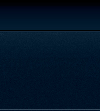
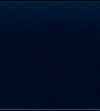
add

diff --git a/wp-content/themes/eurolimoTheme/css/main.css b/wp-content/themes/eurolimoTheme/css/main.css
@@ -1,1 +1,1 @@
-@import url(http://fonts.googleapis.com/css?family=Nova+Square);body{background-image:url('../img/bg_main.jpg');background-attachment:fixed;background-size:cover;font:normal 14px/20px 'Nova Square','Lucida Grande',Arial,san-serif;color:#fff}h1{font-family:'Nova Square',serif;font-size:25px}h3{font-family:'Nova Square',serif;font-size:20px;padding-bottom:4px;color:#3fa2e7;margin-bottom:16px;background:url(../img/h1_bg.png) repeat-x 0 bottom}h3:first-letter {color:#3d94ff;text-transform:uppercase}b,strong{color:#529bfc}.wrapper{width:960px;margin:0 auto;clear:both}#header{background-image:url('../img/topline_bg.jpg');height:111px;width:100%}#header .wrapper{position:relative;height:100%}#header #logo{float:left}#main-slider{padding:0;background:url('../img/bg_slide_t.png');border-bottom:1px solid #555}#main-section{overflow:hidden}#main-section .wrap-main{overflow:hidden;margin-top:0;background:url(../img/cont_spot_t.png) no-repeat center 0}#main-section .wrap-main .left-content{float:left;width:600px;margin:30px 0 0 0}#main-section .wrap-main .full-content{float:left;width:100%;margin:30px 0 0 0}#main-section .wrap-main .sidebar{float:right;width:300px;margin:30px 0 0 0}#main-title{background:#fff url('../img/breadcrumbs_mask.png')}#main-title h1{margin:0;padding:28px 0;line-height:1em;color:#000}.bx-wrapper .bx-viewport{-moz-box-shadow:0 0 8px #000;-webkit-box-shadow:0 0 8px #000;box-shadow:0 0 8px #000;border:solid #202020 8px;left:0;background:transparent}.bx-wrapper .bx-viewport .overlay-slide{width:100%;height:100%;position:absolute;top:0;left:0;background:url('../img/bg_slide_t.png')}.bx-wrapper .bx-viewport img{width:100%;border:1px solid #ccc}.bx-wrapper .bx-caption span{font-size:18px;font-family:'Nova Square',serif}.bx-wrapper .bx-caption{bottom:16px}#footer{float:left;width:100%;margin:30px 0 0 0;min-height:150px;background:#0d1826 url('../img/footer_spot.png') no-repeat center 0;padding-bottom:35px}.copy{float:left;width:100%;min-height:42px;padding:15px 0;background:#0d1826 url(../img/bottline_bg.png) no-repeat center 0}.no-padding{padding-left:0;padding-right:0}.item{position:relative}.services .service-img{height:150px;overflow:hidden;padding:0;margin:0 0 10px 0}.services .service-img img{border:2px solid #636363;width:100%}.services .service-title{text-align:center;position:absolute;left:0;right:0;bottom:0;padding:.25em 0 .25em 0;margin:0;background:#000;-moz-opacity:.60;opacity:.60;color:#fff}.services .item{margin-bottom:15px}.services .item:last-child{margin-bottom:0}.caption{color:#ccc}.caption .bx-wrapper .bx-viewport{border:0!important;-moz-box-shadow:0 0 0!important;-webkit-box-shadow:0 0 0!important;box-shadow:0 0 0!important}.caption span.autor{float:right;color:#3fa2e7;padding-bottom:10px;font-size:12px}.outside-controls-direction{display:none;position:absolute;top:-8px;left:150px;width:75px}.outside-controls-direction span,.outside-controls-direction a{width:32px;height:32px;text-indent:-9999px;z-index:9999}.outside-controls-direction .bx-next{right:10px;background:url(../js/bxslider/images/controls.png) no-repeat -43px -32px;float:right}.outside-controls-direction .bx-prev{left:10px;background:url(../js/bxslider/images/controls.png) no-repeat 0 -32px;float:left}#slider{margin:0 0 40px 0}.site-navigation li .current_page_item>a,.site-navigation li .current_page_ancestor>a,.site-navigation li .current-menu-item>a,.site-navigation li .current-menu-ancestor>a{color:#d14f00}.primary-navigation{position:absolute;left:250px;top:50%;font-size:15px;margin:0;padding:0}.primary-navigation .menu-toggle{display:none;padding:0}.primary-navigation .nav-menu{border-bottom:0;display:block}.primary-navigation.toggled-on{border-bottom:0;margin:0;padding:0}.primary-navigation li{border:0;display:inline-block;line-height:1em;position:relative}.primary-navigation a{display:inline-block;padding:5px 12px;white-space:nowrap;font-family:'Nova Square',serif;color:#fff}.primary-navigation ul ul{background:url(../img/ddmenu_bg.png) no-repeat 0 0;width:204px;padding:24px 0 4px 8px;float:left;margin:0;position:absolute;top:20px;left:-999em;z-index:99999}.primary-navigation li li{border:0;display:block;height:auto;line-height:1.0909090909}.primary-navigation ul ul ul{left:-999em;top:0}.primary-navigation ul ul a{white-space:normal;display:block;padding:0 14px 0 7px;margin:0 0 10px 0;font-size:12px;color:#7a7a7a}.primary-navigation li:hover>a,.primary-navigation li.focus>a{color:#fff}.primary-navigation ul li:hover>ul,.primary-navigation ul li.focus>ul{left:auto}.primary-navigation ul ul li:hover>ul,.primary-navigation ul ul li.focus>ul{left:100%}.primary-navigation .menu-item-has-children>a:after,.primary-navigation .page_item_has_children>a:after{-webkit-font-smoothing:antialiased;display:inline-block;position:absolute;right:12px;top:22px;vertical-align:text-bottom}.primary-navigation li .menu-item-has-children>a,.primary-navigation li .page_item_has_children>a{padding-right:20px;width:168px}.primary-navigation .menu-item-has-children li.menu-item-has-children>a:after,.primary-navigation .menu-item-has-children li.page_item_has_children>a:after,.primary-navigation .page_item_has_children li.menu-item-has-children>a:after,.primary-navigation .page_item_has_children li.page_item_has_children>a:after{content:"\f501";right:8px;top:20px}.wpcf7-form input[type="text"]{width:60%;border:1px solid #ccc}.wpcf7-form input[type="email"]{width:60%;border:1px solid #ccc}.wpcf7-form textarea{width:100%;height:150px;border:1px solid #ccc}.wpcf7-form input[type="submit"]{background-color:#2a6496;color:#fff;font-size:14px;text-transform:uppercase;padding:5px 20px;border:1px solid #2a6496}.bx-wrapper{margin:0 auto 0}.bx-wrapper .bx-viewport{border:solid #202020 0}.bx-wrapper .bx-pager{bottom:2px;padding-top:0}.bx-wrapper .bx-controls-auto{bottom:2px}
+@import url(http://fonts.googleapis.com/css?family=Nova+Square);body{background-image:url('../img/bg_main.jpg');background-attachment:fixed;background-size:cover;font:normal 14px/20px 'Nova Square','Lucida Grande',Arial,san-serif;color:#fff}h1{font-family:'Nova Square',serif;font-size:25px}h3{font-family:'Nova Square',serif;font-size:20px;padding-bottom:4px;color:#3fa2e7;margin-bottom:16px;background:url(../img/h1_bg.png) repeat-x 0 bottom}h3:first-letter {color:#3d94ff;text-transform:uppercase}b,strong{color:#529bfc}.wrapper{width:1000px;margin:0 auto;clear:both}#header{background-image:url('../img/topline_bg.jpg');height:111px;width:100%}#header .wrapper{position:relative;height:100%}#header #logo{float:left;margin:15px 0 0 0}#main-slider{padding:0;border-bottom:1px solid #555}#main-section{overflow:hidden}#main-section .wrap-main{overflow:hidden;margin-top:0;background:url(../img/cont_spot_t.png) no-repeat center 0}#main-section .wrap-main .left-content{float:left;width:600px;margin:30px 0 0 0}#main-section .wrap-main .full-content{float:left;width:100%;margin:30px 0 0 0}#main-section .wrap-main .sidebar{float:right;width:300px;margin:30px 0 0 0}#main-title{background:#fff url('../img/breadcrumbs_mask.png')}#main-title h1{margin:0;padding:28px 0;line-height:1em;color:#000}.bx-wrapper .bx-viewport{-moz-box-shadow:0 0 8px #000;-webkit-box-shadow:0 0 8px #000;box-shadow:0 0 8px #000;border:solid #202020 8px;left:0;background:transparent}.bx-wrapper .bx-viewport img{width:100%;border:1px solid #ccc}.bx-wrapper .bx-caption span{font-size:18px;font-family:'Nova Square',serif}.bx-wrapper .bx-caption{bottom:16px}#footer{float:left;width:100%;margin:30px 0 0 0;min-height:150px;background:#0d1826 url('../img/footer_spot.png') no-repeat center 0;padding-bottom:35px}.copy{float:left;width:100%;min-height:42px;padding:15px 0;background:#0d1826 url(../img/bottline_bg.png) no-repeat center 0}.no-padding{padding-left:0;padding-right:0}.item{position:relative}.services .service-img{height:150px;overflow:hidden;padding:0;margin:0 0 10px 0}.services .service-img img{border:2px solid #636363;width:100%}.services .service-title{text-align:center;position:absolute;left:0;right:0;bottom:0;padding:.25em 0 .25em 0;margin:0;background:#000;-moz-opacity:.60;opacity:.60;color:#fff}.services .item{margin-bottom:15px}.services .item:last-child{margin-bottom:0}.caption{color:#ccc}.caption .bx-wrapper .bx-viewport{border:0!important;-moz-box-shadow:0 0 0!important;-webkit-box-shadow:0 0 0!important;box-shadow:0 0 0!important}.caption span.autor{float:right;color:#3fa2e7;padding-bottom:10px;font-size:12px}.outside-controls-direction{display:none;position:absolute;top:-8px;left:150px;width:75px}.outside-controls-direction span,.outside-controls-direction a{width:32px;height:32px;text-indent:-9999px;z-index:9999}.outside-controls-direction .bx-next{right:10px;background:url(../js/bxslider/images/controls.png) no-repeat -43px -32px;float:right}.outside-controls-direction .bx-prev{left:10px;background:url(../js/bxslider/images/controls.png) no-repeat 0 -32px;float:left}#slider{margin:0 0 40px 0}.site-navigation li .current_page_item>a,.site-navigation li .current_page_ancestor>a,.site-navigation li .current-menu-item>a,.site-navigation li .current-menu-ancestor>a{color:#d14f00}.primary-navigation{position:absolute;left:250px;top:50%;font-size:15px;margin:0;padding:0}.primary-navigation .menu-toggle{display:none;padding:0}.primary-navigation .nav-menu{border-bottom:0;display:block}.primary-navigation.toggled-on{border-bottom:0;margin:0;padding:0}.primary-navigation li{border:0;display:inline-block;line-height:1em;position:relative}.primary-navigation a{display:inline-block;padding:5px 12px;white-space:nowrap;font-family:'Nova Square',serif;color:#fff}.primary-navigation ul ul{background:url(../img/ddmenu_bg.png) no-repeat 0 0;width:204px;padding:24px 0 4px 8px;float:left;margin:0;position:absolute;top:20px;left:-999em;z-index:99999}.primary-navigation li li{border:0;display:block;height:auto;line-height:1.0909090909}.primary-navigation ul ul ul{left:-999em;top:0}.primary-navigation ul ul a{white-space:normal;display:block;padding:0 14px 0 7px;margin:0 0 10px 0;font-size:12px;color:#7a7a7a}.primary-navigation li:hover>a,.primary-navigation li.focus>a{color:#fff}.primary-navigation ul li:hover>ul,.primary-navigation ul li.focus>ul{left:auto}.primary-navigation ul ul li:hover>ul,.primary-navigation ul ul li.focus>ul{left:100%}.primary-navigation .menu-item-has-children>a:after,.primary-navigation .page_item_has_children>a:after{-webkit-font-smoothing:antialiased;display:inline-block;position:absolute;right:12px;top:22px;vertical-align:text-bottom}.primary-navigation li .menu-item-has-children>a,.primary-navigation li .page_item_has_children>a{padding-right:20px;width:168px}.primary-navigation .menu-item-has-children li.menu-item-has-children>a:after,.primary-navigation .menu-item-has-children li.page_item_has_children>a:after,.primary-navigation .page_item_has_children li.menu-item-has-children>a:after,.primary-navigation .page_item_has_children li.page_item_has_children>a:after{content:"\f501";right:8px;top:20px}.wpcf7-form input[type="text"]{width:60%;border:1px solid #ccc}.wpcf7-form input[type="email"]{width:60%;border:1px solid #ccc}.wpcf7-form textarea{width:100%;height:150px;border:1px solid #ccc}.wpcf7-form input[type="submit"]{background-color:#2a6496;color:#fff;font-size:14px;text-transform:uppercase;padding:5px 20px;border:1px solid #2a6496}.bx-wrapper{margin:0 auto 0}.bx-wrapper .bx-viewport{border:solid #202020 0}.bx-wrapper .bx-pager{bottom:2px;padding-top:0}.bx-wrapper .bx-controls-auto{bottom:2px}

diff --git a/wp-content/themes/eurolimoTheme/less/main.less b/wp-content/themes/eurolimoTheme/less/main.less
@@ -28,7 +28,7 @@ b, strong {
 	color: #529bfc;
 }
 .wrapper{
-	width: 960px;
+	width: 1000px;
 	margin: 0 auto;
 	clear: both;
 }
@@ -42,11 +42,11 @@ b, strong {
 	}
 	#logo{
 		float: left;
+		margin: 15px 0 0 0;
 	}
 }
 #main-slider{
 	padding: 0px 0;
-	background: url('../img/bg_slide_t.png');
 	border-bottom: 1px solid #555;
 }
 #main-section{
@@ -89,14 +89,7 @@ b, strong {
 	border: solid #202020 8px;
 	left: 0;
 	background: transparent;
-	.overlay-slide{
-		width: 100%;
-		height: 100%;
-		position: absolute;
-		top: 0;
-		left: 0;
-		background: url('../img/bg_slide_t.png');
-	}
+
 	img{
 		width: 100%;
 		border: 1px solid #ccc;

diff --git a/wp-content/themes/eurolimoTheme/index.php b/wp-content/themes/eurolimoTheme/index.php
@@ -17,7 +17,6 @@
 						$myposts->the_post();   
 						$featured = wp_get_attachment_image_src(get_post_thumbnail_id(get_the_ID()),'large',false);?>
 								<li>
-                  <div class="overlay-slide"></div>
 									<img src="<?php echo $featured['0'];?>" title="<?php the_title();?>" alt="<?php the_title();?>">
 								</li>
                     <?php endwhile;?>                            
